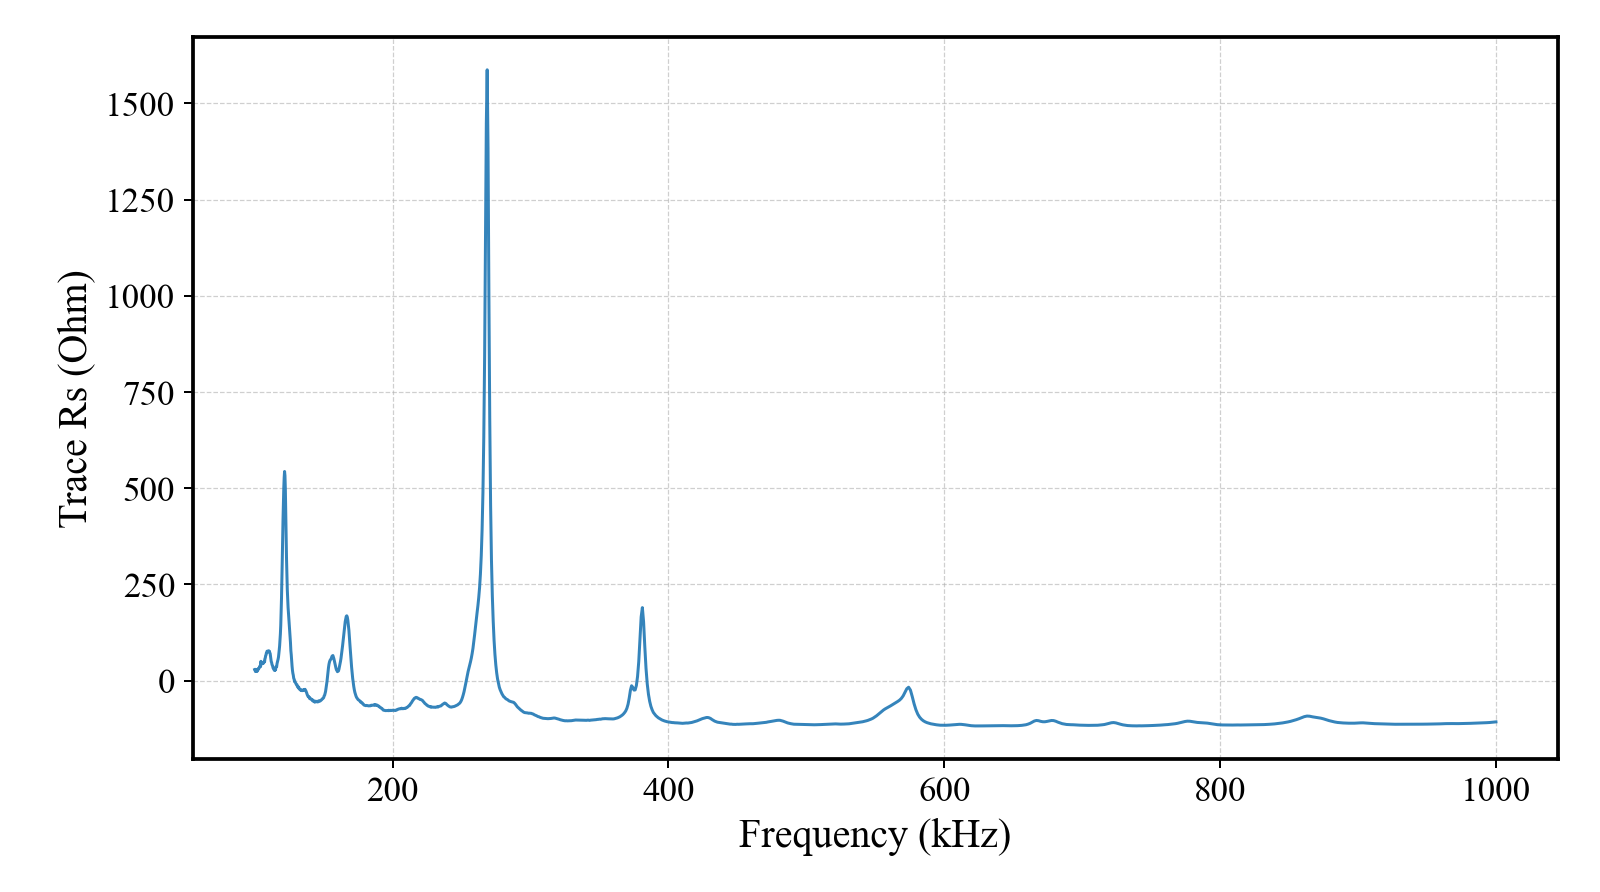
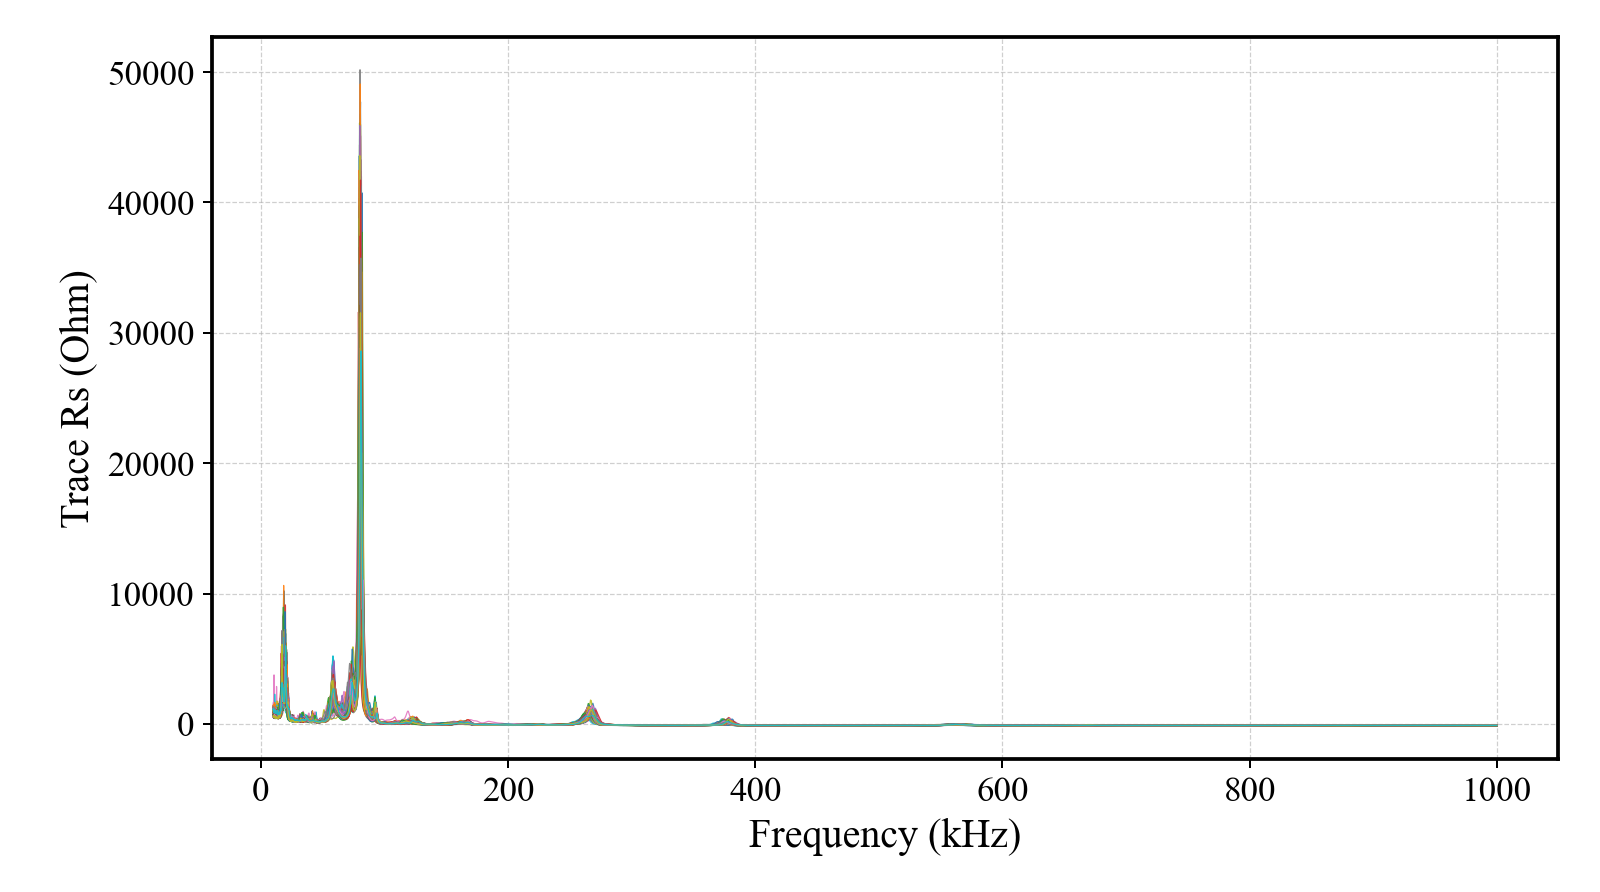
plotter

diff --git a/plotters/Impedance variation/interactive.py b/plotters/Impedance variation/interactive.py
@@ -1,0 +1,156 @@
+"""
+Interactive Dataset Plotter (Zoom + Save High-DPI Figure)
+---------------------------------------------------------
+Features:
+✓ Loads all CSV files in a folder
+✓ Plots selected columns vs Frequency
+✓ Interactive zoom / pan window
+✓ "Save Current View" button
+✓ Saves exactly what you zoomed into
+✓ High DPI journal-quality JPG output
+✓ IEEE / publication styling
+
+Requires:
+pip install pandas matplotlib
+
+"""
+
+import os
+import pandas as pd
+import matplotlib.pyplot as plt
+import matplotlib as mpl
+from matplotlib.widgets import Button
+from datetime import datetime
+
+# ==========================================================
+# USER SETTINGS
+# ==========================================================
+folder_path = r"C:\PCA_Framework\01_master_dataset"
+
+# (column_name, log_y, log_x)
+columns_to_plot = [
+    ("Trace Rs (Ohm)", False, False),
+]
+
+x_column = "Frequency (Hz)"
+
+save_folder = r"C:\PCA_Framework\Saved_Figures"
+save_dpi = 600     # publication quality
+
+# ==========================================================
+# MATPLOTLIB STYLE (IEEE / Journal)
+# ==========================================================
+mpl.rcParams["font.family"] = "Times New Roman"
+mpl.rcParams["font.size"] = 14
+mpl.rcParams["axes.titlesize"] = 16
+mpl.rcParams["axes.labelsize"] = 16
+mpl.rcParams["figure.dpi"] = 140
+mpl.rcParams["savefig.dpi"] = save_dpi
+mpl.rcParams["lines.linewidth"] = 0.45
+
+# ==========================================================
+# CREATE SAVE FOLDER
+# ==========================================================
+os.makedirs(save_folder, exist_ok=True)
+
+# ==========================================================
+# SAVE BUTTON FUNCTION
+# ==========================================================
+def save_current_view(event):
+    timestamp = datetime.now().strftime("%Y%m%d_%H%M%S")
+    filename = f"{current_plot_name}_{timestamp}.jpg"
+    full_path = os.path.join(save_folder, filename)
+
+    fig.savefig(
+        full_path,
+        dpi=save_dpi,
+        bbox_inches="tight",
+        facecolor="white",
+        format="jpg"
+    )
+
+    print(f"\n[SAVED] {full_path}")
+
+# ==========================================================
+# MAIN LOOP
+# ==========================================================
+for col_name, log_y, log_x in columns_to_plot:
+
+    current_plot_name = col_name.replace(" ", "_").replace("|", "")
+    
+    fig, ax = plt.subplots(figsize=(8, 5))
+    plt.subplots_adjust(bottom=0.18)
+
+    plotted_devices = set()
+
+    for filename in sorted(os.listdir(folder_path)):
+        if not filename.endswith(".csv"):
+            continue
+
+        device_id = filename.split("_")[0]
+
+        if device_id in plotted_devices:
+            continue
+
+        file_path = os.path.join(folder_path, filename)
+
+        try:
+            df = pd.read_csv(file_path, comment="#")
+        except Exception as e:
+            print(f"[ERROR] {filename}: {e}")
+            continue
+
+        if x_column not in df.columns or col_name not in df.columns:
+            print(f"[WARN] Missing columns in {filename}")
+            continue
+
+        # X values (kHz)
+        x_vals = df[x_column] / 1000.0
+
+        # Y values
+        if col_name == "Trace |Z| (Ohm)":
+            y_vals = df[col_name] / 1000.0
+            y_label = "Impedance |Z| (kΩ)"
+        else:
+            y_vals = df[col_name]
+            y_label = col_name
+
+        ax.plot(x_vals, y_vals, alpha=0.9)
+
+        plotted_devices.add(device_id)
+
+    # ======================================================
+    # FORMATTING
+    # ======================================================
+    ax.set_xlabel("Frequency (kHz)")
+    ax.set_ylabel(y_label)
+
+    if log_x:
+        ax.set_xscale("log")
+    if log_y:
+        ax.set_yscale("log")
+
+    ax.grid(True, linestyle="--", linewidth=0.5, alpha=0.6)
+
+    # Dark border
+    for spine in ax.spines.values():
+        spine.set_linewidth(1.5)
+        spine.set_color("black")
+
+    # ======================================================
+    # SAVE BUTTON
+    # ======================================================
+    button_ax = plt.axes([0.78, 0.03, 0.18, 0.08])
+    btn = Button(button_ax, "Save Current View")
+    btn.on_clicked(save_current_view)
+
+    # ======================================================
+    # USER INFO
+    # ======================================================
+    print("\nUse toolbar to:")
+    print(" - Zoom")
+    print(" - Pan")
+    print(" - Adjust view")
+    print("Then click SAVE CURRENT VIEW")
+
+    plt.show()
